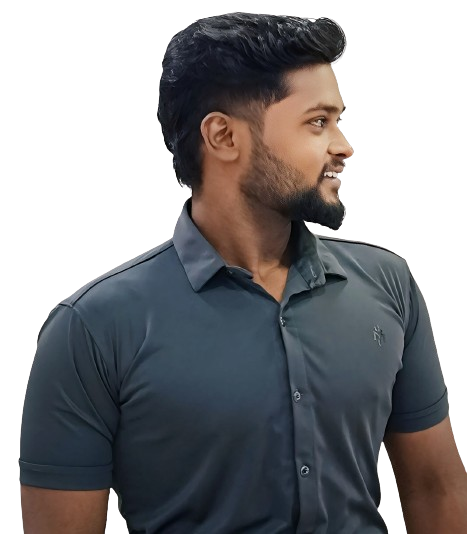
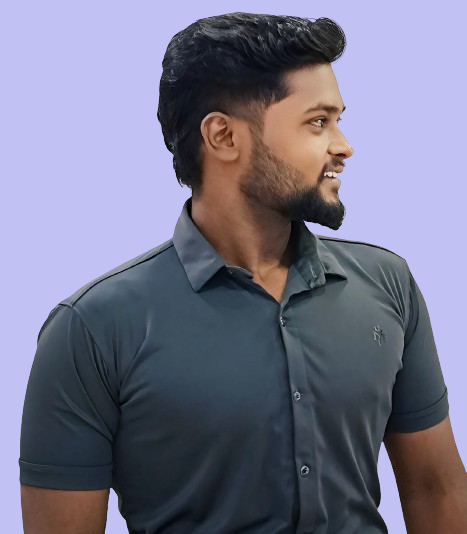
last

diff --git a/home.html b/home.html
@@ -4,7 +4,7 @@
     <div id="carouselExampleSlidesOnly" class="carousel slide" data-bs-ride="carousel">
       <div class="carousel-inner">
         <div class="carousel-item active">
-          <img src="./assets/img/gen-ai.jpg" class="d-block w-100"  alt="...">
+          <img src="./assets/img/ai-gen-imgs.png" class="d-block w-100"  alt="...">
         </div>
         <div class="carousel-item">
           <img src="./assets/img/app.jpg" class="d-block w-100" alt="...">
@@ -14,13 +14,21 @@
   <div class="container slide-centerPage">
     <div class="row gy-4 d-flex justify-content-between">
       <div
-        class="col-lg-12 d-flex flex-column justify-content-center align-items-center"
+        class="col-lg-12 d-flex flex-column justify-content-center align-items-center mob-place-size"
       >
        <div class="back-cover">
         <h2 class="mb-0" data-aos="fade-up">"Attracting Top Talents"</h2>
         <p class="mb-0" data-aos="fade-up" data-aos-delay="100">
           Lets turn dreams into plans and plans into reality.<br />We are
-          bulding our dynamic team where innovation can flourish <br />&<br />
+          bulding our dynamic team where innovation can flourish <br />&<br/>
+          success is inevitable.
+        </p>
+       </div>
+       <div class="back-cover-mob">
+        <h2 class="mb-0" data-aos="fade-up">"Attracting Top Talents"</h2>
+        <p class="mb-0" data-aos="fade-up" data-aos-delay="100">
+          Lets turn dreams into plans and plans into reality. We are
+          bulding our dynamic team where innovation can flourish  & 
           success is inevitable.
         </p>
        </div>
@@ -679,9 +687,9 @@
       </ul>
 
     </div> -->
-    <div class="row gy-4">
+    <div class="row gy-4 d-flex justify-content-center">
       <div class="col-lg-12 col-md-12">
-        <div class="card-industry">
+        <div class="card-industry indus-back">
           <div class="row">
             <div class="col-lg-9">
               <div class="card-first">
@@ -699,7 +707,10 @@
                 <p class="mb-0 team-desc">Hey there, I'm Krishnakanth, The Brain behind Thikse Software Solutions. You know why I embarked on this journey? To create a realm where top talent could spread their wings. Fueled by a passion for pushing limits and making waves,"I set out to craft more than just a company - but a nurturing ground for innovation. So, let's unite our talents and weave those untamed ideas into technological wonders, shall we?"</p>
                </div>
                <div class="d-flex justify-content-end mt-3 max-mob-res-hide">
-                <p class="mb-0 ourTeam-unique">❝An awesome working module is the aspiration of an individual.❞</p>
+                <p class="mb-0 ourTeam-unique font-weight-700">❝An excellent working module is an individual's aspiration❞</p>
+               </div>
+               <div class="d-flex justify-content-end max-mob-res-hide">
+                <p class="mb-0 mt-0 font-weight-700 unique-k">- Krishnakanth</p>
                </div>
             </div>
             <div class="col-lg-3 d-flex justify-content-end max-mob-res-hide">
@@ -708,9 +719,14 @@
               </div>
             </div>
             <div class="col-lg-12 justify-content-between max-mob-res-hide-main">
-              <div class="d-flex justify-content-end mt-3 align-items-center">
-                <p class="mb-0 ourTeam-unique">❝An awesome working module is the aspiration of an individual.❞</p>
-               </div>
+              <div class="d-flex justify-content-center align-items-end flex-column">
+                <div class="">
+                  <p class="mb-0 ourTeam-unique font-weight-700">❝An excellent working module is an individual's aspiration❞</p>
+                 </div>
+                 <div class="d-flex justify-content-end">
+                  <p class="mb-0 mt-0 font-weight-700 unique-k">- by Krishnakanth</p>
+                 </div>
+              </div>
                <div class="" style="width: 200px;">
                 <img src="./assets/img/team/formal.png" class="image-fluid w-100" alt="">
               </div>
@@ -791,7 +807,7 @@
           </div>
           <div>
             <p class="mb-0 ourTeam-para">Vignesh</p>
-            <p class="mb-0 ourTeam-post">Ai Developer</p>
+            <p class="mb-0 ourTeam-post">AI Developer</p>
           </div>
          </div>
          <div class="">

diff --git a/assets/scss/main.scss b/assets/scss/main.scss
@@ -552,7 +552,7 @@ h6 {
   position: relative;
   // padding: 140px 0;
   padding-bottom: 40px;
-  min-height: 850px;
+  // min-height: 850px;
   /* vertical-align: middle; */
   // display: flex;
   // align-items: center;
@@ -742,6 +742,7 @@ h6 {
   box-shadow: rgba(0, 0, 0, 0.1) 0px 4px 12px;
   padding: 20px;
   border-radius: 10px;
+  
 
   .card-svg {
     width: 120px;
@@ -785,6 +786,9 @@ h6 {
     box-shadow: rgba(0, 0, 0, 0.1) 0px 4px 12px;
     padding: 20px;
     border-radius: 10px;
+    &.indus-back{
+      background-color: rgb(193 193 242);
+    }
     .card-first {
       display: flex;
       flex-direction: row;
@@ -819,17 +823,20 @@ h6 {
       }
     }
     .team-desc {
-      color: #64748b;
+      color: #4a525c;
       font-size: 14px;
     }
   }
 }
 .ourTeam-unique{
-    font-size: 22px;
-    color: var(--c-primaryColor);
+    font-size: 16px;
+    // color: var(--c-primaryColor);
     font-weight: 300;
     font-family: var(--font-menu);
     font-style: italic;
+}
+.unique-k{
+  color: var(--c-primaryColor);
 }
 .tailImgCover {
   border-radius: 50%;
@@ -1527,4 +1534,49 @@ h6 {
     border-radius: 10px;
     max-width: 725px;
     padding: 20px;
+}
+
+// Mobile responsive
+
+@media (max-width: 745px){
+  .hero{
+    h2 {
+      font-size: 25px;
+    }
+    p {
+      font-size: 18px !important;
+  }
+  }
+
+}
+.back-cover-mob{
+    display: none;
+}
+
+@media(max-width:715px){
+  .back-cover{
+    display: none;
+  }
+  .back-cover-mob{
+    display: block;
+    --webkit-backdrop-filter: blur(1px);
+    backdrop-filter: blur(1px);
+    background-color: rgba(0, 0, 0, 0.5);
+  }
+}
+
+@media(max-width:570px) and (min-width:320px){
+  .mob-place-size{
+    margin-top: 85px;
+  }
+  .back-cover-mob{
+    h2{
+      font-size: 18px;
+    }
+    p{
+      font-size: 14px !important;
+      margin-top: 10px !important;
+      margin-bottom: 10px !important;
+    }
+  }
 }

diff --git a/assets/css/main.css b/assets/css/main.css
@@ -548,7 +548,6 @@ h6 {
   text-align: center;
   position: relative;
   padding-bottom: 40px;
-  min-height: 850px;
   /* vertical-align: middle; */
   overflow: hidden;
 }
@@ -746,6 +745,9 @@ h6 {
   padding: 20px;
   border-radius: 10px;
 }
+.ourTeam .card-industry.indus-back {
+  background-color: rgb(193, 193, 242);
+}
 .ourTeam .card-industry .card-first {
   display: flex;
   flex-direction: row;
@@ -777,16 +779,19 @@ h6 {
   object-position: center top;
 }
 .ourTeam .card-industry .team-desc {
-  color: #64748b;
+  color: #4a525c;
   font-size: 14px;
 }
 
 .ourTeam-unique {
-  font-size: 22px;
-  color: var(--c-primaryColor);
+  font-size: 16px;
   font-weight: 300;
   font-family: var(--font-menu);
   font-style: italic;
+}
+
+.unique-k {
+  color: var(--c-primaryColor);
 }
 
 .tailImgCover {
@@ -1392,6 +1397,43 @@ h6 {
   border-radius: 10px;
   max-width: 725px;
   padding: 20px;
+}
+
+@media (max-width: 745px) {
+  .hero h2 {
+    font-size: 25px;
+  }
+  .hero p {
+    font-size: 18px !important;
+  }
+}
+.back-cover-mob {
+  display: none;
+}
+
+@media (max-width: 715px) {
+  .back-cover {
+    display: none;
+  }
+  .back-cover-mob {
+    display: block;
+    --webkit-backdrop-filter: blur(1px);
+    backdrop-filter: blur(1px);
+    background-color: rgba(0, 0, 0, 0.5);
+  }
+}
+@media (max-width: 570px) and (min-width: 320px) {
+  .mob-place-size {
+    margin-top: 85px;
+  }
+  .back-cover-mob h2 {
+    font-size: 18px;
+  }
+  .back-cover-mob p {
+    font-size: 14px !important;
+    margin-top: 10px !important;
+    margin-bottom: 10px !important;
+  }
 }
 
 /*# sourceMappingURL=main.css.map */

diff --git a/artificialIntelligence.html b/artificialIntelligence.html
@@ -385,7 +385,7 @@
     <div class="container">
       <div class="ai-card_desc">
         <p class="mb-0">
-          Thikse Povid AI Services pioneers the future of content creation with
+          Thikse Provide AI Services pioneers the future of content creation with
           cutting-edge technology and a passion for innovation. Our
           revolutionary approach combines the artistry of human creativity with
           the precision of artificial intelligence, resulting in content that
@@ -394,13 +394,13 @@
           solutions to suit your brand's unique voice and objectives. With a
           diverse team of writers and linguistic experts, we ensure that every
           piece of content resonates with your target audience on a profound
-          level. At Thikse Povid AI Services, we don't just create content; we
+          level. At Thikse Provide AI Services, we don't just create content; we
           craft experiences that inspire, inform, and delight. Let us be your
           creative partner in shaping the narrative of tomorrow, one compelling
           word at a time. Trust in our expertise to elevate your brand's
           presence and influence in the digital landscape, driving engagement
           and fostering meaningful connections with your audience. Welcome to a
-          new era of content excellence with Thikse Povid AI Services.
+          new era of content excellence with Thikse Provide AI Services.
         </p>
       </div>
     </div>

diff --git a/assets/js/main.js b/assets/js/main.js
@@ -153,20 +153,20 @@ document.addEventListener('DOMContentLoaded', () => {
   /**
    * Hide mobile nav on same-page/hash links
    */
-  document.querySelectorAll('#navbar a').forEach(navbarlink => {
+  // document.querySelectorAll('#navbar a').forEach(navbarlink => {
 
-    if (!navbarlink.hash) return;
+  //   if (!navbarlink.hash) return;
 
-    let section = document.querySelector(navbarlink.hash);
-    if (!section) return;
+  //   let section = document.querySelector(navbarlink.hash);
+  //   if (!section) return;
 
-    navbarlink.addEventListener('click', () => {
-      if (document.querySelector('.mobile-nav-active')) {
-        mobileNavToogle();
-      }
-    });
+  //   navbarlink.addEventListener('click', () => {
+  //     if (document.querySelector('.mobile-nav-active')) {
+  //       mobileNavToogle();
+  //     }
+  //   });
 
-  });
+  // });
 
   /**
    * Toggle mobile nav dropdowns

diff --git a/index.html b/index.html
@@ -2,6 +2,7 @@
 <html lang="en" ng-app="businessApp">
 <head>
     <meta charset="UTF-8">
+    <meta content="width=device-width, initial-scale=1" name="viewport" />
     <title>Thikse Software Solutions</title>
         <!-- Favicons -->
   <link rel="apple-touch-icon" sizes="180x180" href="./assets/img/apple-touch-icon.png">
@@ -107,7 +108,7 @@
               "Attracting Top Talents"
             </p>
             <div class="social-links d-flex mt-4">
-              <a href="#" class="twitter"><i class="bi bi-twitter-x"></i></a>
+              <a href="" class="twitter"><i class="bi bi-twitter-x"></i></a>
               <a
                 href="https://www.facebook.com/people/Thikse-Software-Solution/61559194991209/"
                 class="facebook"
